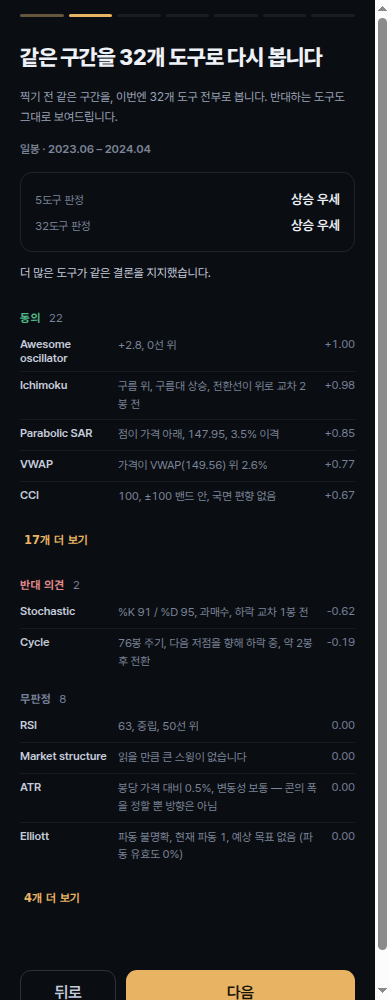
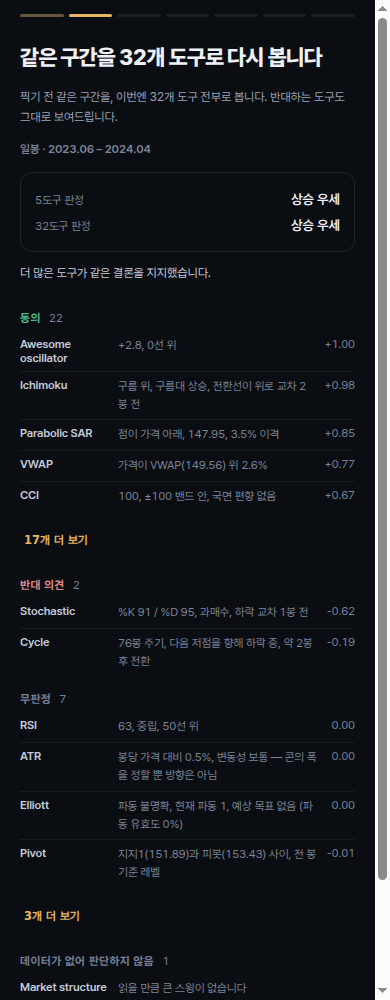
fix(mobile): 온보딩 2단계 — 자백(못 읽음) 도구를 동의로 잘못 세던 것을 고친다
리뷰 Important: classifyFull32() 가 report.js 의 MSIndicators.opposing() 을 부르지
않고 임계값(EPS)만 흉내 낸 채 문턱을 직접 재구현해, 스스로 "이 종목은 거래량
데이터가 없습니다"라고 자백한 지표(mfi·cmf 등)를 "동의"로 세고 있었다.

- classifyFull32() 를 MSReadings.voiced() + MSIndicators.opposing() 조합으로 교체.
  voiced() 로 자백 행(NO_VOL·NO_SWINGS·NONE)을 먼저 걸러낸 뒤, 그 위에서
  opposing()(report.js buildAgainst() 와 정확히 같은 호출)으로 반대를 얻는다.
  임계값을 다시 재구현하지 않는다 — 엔진 함수를 직접 부른다.
- 세 통(동의/반대/무판정)을 네 통(+ 자백=데이터가 없어 판단하지 않음)으로 확장.
  자백 행은 이름·문구는 보이되 방향 기여도(숫자)는 감춘다 — 그 값은 합성 거래량
  으로 계산된 "사실이 아닌 수치"이기 때문(readings.js 머리말 규율 4).
- 합=32 단언을 네 통 기준으로 재정의. 거래량 없는 표본(noVolumeSample)을 새로
  만들어 자백 통이 실제로 채워지는 것까지 시험(0건일 때만 도는 시험이 되지
  않도록, 있음/없음 표본 둘 다 확인).
- gate-routes.mjs 의 조건부 `if(agreeRows.length){...}` 를 먼저 단정 후 무조건
  검사로 교체(리뷰 Minor — "조건부 안에 조용히 건너뛰는 단언"에 여섯 번 데인
  패턴 재발 방지). 자백 섹션 존재도 브라우저 관문에 추가.

실측(번들 PG 표본, 거래량 있음): 동의 22 · 반대 2 · 무판정 7 · 자백 1(structure,
"읽을 만큼 큰 스윙이 없습니다") = 32. 거래량 없는 변이 표본: 동의 17 · 반대 2 ·
무판정 7 · 자백 6(volume·vwap·volumeprofile·mfi·cmf·structure) = 32.

test/onboarding.test.mjs 66건(순증 1건 + 계획서 5·6번 시험 확장) 통과.
./tests/run.sh 전량 1648건 통과 · gate-browser 8/8 통과.

diff --git a/map/mobile/www/screens/onboarding.js b/map/mobile/www/screens/onboarding.js
@@ -6,8 +6,8 @@
 // 경계를 긋는다). 완료 전까지 워치리스트/리포트/지갑은 그리지 않는다.
 //
 //   1 콜드 오픈(11a)                — 예시 구간 · 찍기 · 당신/앱/실제 3열. [재설계 완료]
-//   2 같은 구간, 32개 전부          — 5개가 아니라 32개 전부의 동의·반대·무판정, 5도구
-//                                    판정과 나란히. [재설계 완료 — 이 커밋]
+//   2 같은 구간, 32개 전부          — 5개가 아니라 32개 전부의 동의·반대·무판정·자백(못
+//                                    읽음), 5도구 판정과 나란히. [재설계 완료 — 이 커밋]
 //   3 위험 고지                     — 체크박스 필수. 분석 결과를 보여주기 전. [옛 내용 그대로]
 //   4 기본분석 체험(16a)            — 종목 하나 고르고 실제로 돌린다. 체험 1/3. [옛 내용 그대로]
 //   5 심화분석 체험(16b)            — 무엇이 달라지는지 두 막대로. 체험 2/3. [옛 내용 그대로]
@@ -465,10 +465,11 @@
     // 1단계가 "5개만 봤다"고 못박은 것에 대한 답이다. **같은 절단선(sliced, 228봉)**을
     // 32개 도구 전부로 다시 본다 — 다른 구간을 쓰면 5도구 판정과 32도구 판정이 서로 다른
     // 정보로 계산한 것이 되어 "나란히 비교"가 성립하지 않는다.
-    var FULL32_AGREE_SHOW = 5;   // 대표로 먼저 보이는 동의 줄 수(펼치기 전)
-    var FULL32_FLAT_SHOW = 4;    // 대표로 먼저 보이는 무판정 줄 수(펼치기 전)
+    var FULL32_AGREE_SHOW = 5;    // 대표로 먼저 보이는 동의 줄 수(펼치기 전)
+    var FULL32_FLAT_SHOW = 4;     // 대표로 먼저 보이는 무판정 줄 수(펼치기 전)
+    var FULL32_REFUSED_SHOW = 4;  // 대표로 먼저 보이는 자백(못 읽음) 줄 수(펼치기 전)
     // 반대는 여기 없다 — **반대는 개수와 무관하게 항상 전부 보인다**(컨트롤러 판정: 대표
-    // 몇 줄 + 펼치기는 동의·무판정에만 적용된다. 불리한 근거를 접어 숨기지 않는다는 것이
+    // 몇 줄 + 펼치기는 동의·무판정·자백에만 적용된다. 불리한 근거를 접어 숨기지 않는다는 것이
     // O2 의 실체다).
 
     var _full32Cache = null, _full32CacheSample = null;
@@ -484,42 +485,62 @@
       var rows = MSIndicators.readings(ForgeCore, full.graph, full.input, ctx);
       var noDir = MSIndicators.noDirRows(ForgeCore, full.input, ctx);
       var regime = full.out.verdict.regime;
-      var cls = classifyFull32(regime, rows, noDir);
+      var cls = classifyFull32(full.graph, regime, rows, noDir);
       var an = { graph: full.graph, input: full.input, out: full.out, regime: regime,
-                 agree: cls.agree, dissent: cls.dissent, flat: cls.flat,
+                 agree: cls.agree, dissent: cls.dissent, flat: cls.flat, refused: cls.refused,
                  total: rows.length + noDir.length };
       _full32Cache = an; _full32CacheSample = s;
       return an;
     }
 
-    // 동의/반대/무판정 세 통으로 가른다 — report.js 의 MSIndicators.opposing() 과 같은
-    // 문턱(EPS)·같은 규칙을 쓴다(두 화면이 "반대"의 정의를 각자 가지면 갈린다). 판정
-    // 자체가 중립이면(want===0) 어느 쪽에도 반대·동의가 정의되지 않는다 — report.js
-    // buildAgainst() 의 "중립엔 반대가 정의되지 않는다"와 같은 원칙.
-    function classifyFull32(regime, rows, noDir) {
+    // 동의/반대/무판정/자백(못 읽음) 네 통으로 가른다. **엔진 함수를 직접 부른다** —
+    // 문턱을 여기서 재구현하면 report.js 와 규칙이 갈릴 수 있다(2026-08-19 리뷰 Important:
+    // 실제로 갈렸었다 — 거래량 없는 종목에서 mfi·cmf 가 스스로 "이 종목은 거래량 데이터가
+    // 없습니다"라고 자백하는데 옛 코드는 그걸 "동의"로 세고 있었다). 그래서:
+    //   1. MSReadings.voiced(rows) 로 **자백한 행**(NO_VOL·NO_SWINGS·NONE)을 먼저 걷어낸다
+    //      — report.js buildAgainst() 가 opposing() 을 부르기 **전에** 하는 바로 그 단계.
+    //   2. voiced 위에서 MSIndicators.opposing(FC, graph, null, regime, voiced) 을 그대로
+    //      불러 반대를 얻는다(report.js 와 같은 호출 — data 자리는 rows 를 줬으니 null).
+    //   3. voiced 에서 반대가 아닌 것 중 문턱(EPS)을 넘긴 건 동의, 못 넘긴 건 무판정.
+    //   4. 자백한 행은 별도 통("자백")으로 노출한다 — 숫자만 조용히 32에서 빠지면 그 자체가
+    //      불투명하다. 32 = 동의+반대+무판정+자백 이어야 한다.
+    // 판정 자체가 중립이면(want===0) 반대·동의 둘 다 정의되지 않는다 — voiced 전체가 무판정.
+    function classifyFull32(graph, regime, rows, noDir) {
+      rows = rows || [];
       var want = regimeDir(regime);
+      var voicedRows = (typeof MSReadings !== "undefined") ? MSReadings.voiced(rows) : rows;
+      var refused = (typeof MSReadings !== "undefined")
+        ? rows.filter(function (r) { return MSReadings.isRefusal(r.text); })
+        : [];
+      var dissent = (want !== 0 && typeof MSIndicators !== "undefined")
+        ? MSIndicators.opposing(ForgeCore, graph, null, regime, voicedRows) : [];
+      var dissentSet = {};
+      dissent.forEach(function (r) { dissentSet[r.type] = true; });
       var eps = (typeof MSIndicators !== "undefined" && typeof MSIndicators.EPS === "number") ? MSIndicators.EPS : 0.02;
-      var agree = [], dissent = [], flat = [];
-      (rows || []).forEach(function (r) {
+      var agree = [], flat = [];
+      voicedRows.forEach(function (r) {
+        if (dissentSet[r.type]) return;                          // 이미 반대로 뽑혔다
         if (want === 0 || Math.abs(r.bias) <= eps) { flat.push(r); return; }
-        if ((r.bias > 0 ? 1 : -1) === want) agree.push(r); else dissent.push(r);
+        agree.push(r);   // voiced(자백 아님) + 반대 아님 + 문턱 넘음 = 판정과 같은 방향
       });
       flat = flat.concat(noDir || []);
       function byAbsBias(a, b) { return Math.abs(b.bias || 0) - Math.abs(a.bias || 0); }
       agree.sort(byAbsBias);
-      dissent.sort(byAbsBias);
-      return { agree: agree, dissent: dissent, flat: flat };
+      return { agree: agree, dissent: dissent, flat: flat, refused: refused };
     }
 
     // 도구 한 줄 — 이름(영어) · 무엇을 봤는지(엔진이 지금 계산한 문장, 실측 수치가 이미
     // 문장 안에 있다) · 방향 기여도(부호 있는 수치). trend·phasefold 는 bias 가 없다
     // (readings.js 가 문서화한 구조적 예외 — report.js 도 같은 예외를 갖는다) — 숫자 없이
-    // 문장만 보여준다. 숫자를 지어내는 것보다 없는 것을 없다고 두는 쪽이 정직하다.
-    function full32Row(r) {
+    // 문장만 보여준다. **자백(못 읽음) 행도 수치를 안 보인다** — bias 필드는 합성 거래량
+    // 등으로 계산된 값이 남아 있을 수 있지만, 그 값 자체가 "사실이 아니다"(readings.js
+    // 머리말 규율 4) — 텍스트가 이미 왜 못 읽었는지를 말하므로 숫자를 보태면 오히려
+    // "그래도 뭔가 쟀다"는 인상을 준다.
+    function full32Row(r, showBias) {
       var row = frag("ob32-row");
       row.appendChild(el("span", "ob32-name", MSStr.ind(r.type)));
       row.appendChild(el("span", "ob32-text", r.text));
-      if (typeof r.bias === "number")
+      if (showBias !== false && typeof r.bias === "number")
         row.appendChild(el("span", "ob32-bias", (r.bias > 0 ? "+" : "") + r.bias.toFixed(2)));
       return row;
     }
@@ -528,7 +549,7 @@
     // 클래스 문자열을 하나로 이어붙이지 않는다 — "ob32-sec ob32-sec-" 처럼 공백을 낀
     // 리터럴은 screens/ 영어잔존 게이트(el()·className= 리터럴만 예외로 보는 shape 규칙)를
     // 못 벗어난다(columnsBlock 의 col() 과 같은 이유·같은 처방).
-    function full32Section(kind, label, list, collapsible, showN) {
+    function full32Section(kind, label, list, collapsible, showN, showBias) {
       var sec = frag("ob32-sec");
       sec.className = sec.className + " ob32-sec-" + kind;
       var head = frag("ob32-sec-head");
@@ -539,7 +560,7 @@
       var open = !collapsible || !!(state.ob32Open && state.ob32Open[kind]);
       var shown = (collapsible && !open) ? list.slice(0, showN) : list;
       var rows = frag("ob32-rows");
-      shown.forEach(function (r) { rows.appendChild(full32Row(r)); });
+      shown.forEach(function (r) { rows.appendChild(full32Row(r, showBias)); });
       sec.appendChild(rows);
       if (collapsible && list.length > showN) {
         var btn = document.createElement("button");
@@ -603,6 +624,10 @@
       w.appendChild(full32Section("agree", MSStr.t.ob32AgreeHead, an.agree, true, FULL32_AGREE_SHOW));
       w.appendChild(full32Section("dissent", MSStr.t.rpAgainst, an.dissent, false));
       w.appendChild(full32Section("flat", MSStr.t.ob32FlatHead, an.flat, true, FULL32_FLAT_SHOW));
+      // 자백(못 읽음) — 숫자를 안 보인다(showBias=false, full32Row 주석 참고). 이 표본이
+      // 실거래량을 가진 한 대개 0~1건이지만, 거래량 없는 종목에서는 5~6건까지 늘어난다
+      // (mfi·cmf·volume·vwap·volumeprofile) — 그래서 접어도 되되 **숨기지는 않는다**.
+      w.appendChild(full32Section("refused", MSStr.t.ob32RefusedHead, an.refused, true, FULL32_REFUSED_SHOW, false));
 
       return w;
     }

diff --git a/map/mobile/www/strings.js b/map/mobile/www/strings.js
@@ -564,6 +564,10 @@
     ob32DiffA: "개 도구는 ", ob32DiffB: "라고 봤지만, ", ob32DiffC: "개 전부를 보면 ", ob32DiffD: "입니다.",
     ob32AgreeHead: "동의",
     ob32FlatHead: "무판정",
+    // 2026-08-19 리뷰(Important) — 거래량 없는 종목에서 mfi·cmf 가 스스로 "이 종목은
+    // 거래량 데이터가 없습니다"라고 자백하는데(readings.js NO_VOL), 그 자백을 조용히
+    // 32에서 빼면 그 자체가 불투명하다. 이름을 달아 노출한다.
+    ob32RefusedHead: "데이터가 없어 판단하지 않음",
     ob32ExpandSuffix: "개 더 보기",
     ob32Collapse: "접기",
 
